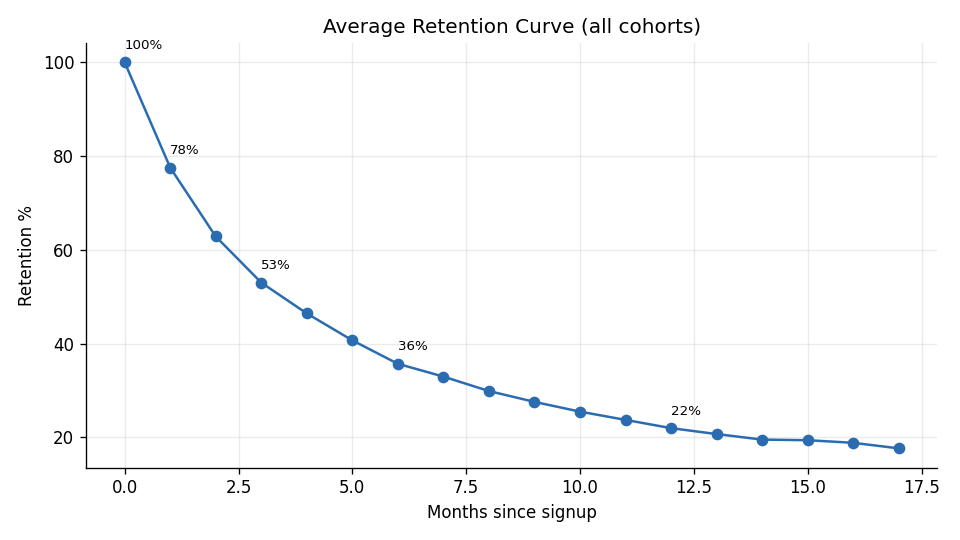
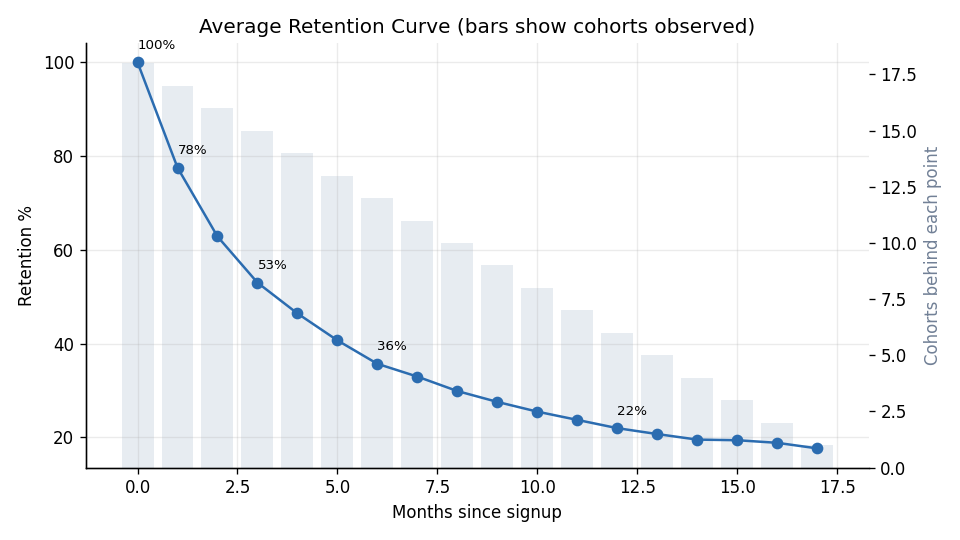
Correct LTV for right-censoring
Average observed lifetime counts anyone still subscribed when the 18-month
window closes as having ended, which is 38.7% of customers here. Expected
lifetime is now read off the survival curve and the tail extrapolated from the
long-run monthly retention rate, and LTV applies a stated gross margin.

Lifetime moves from 4.5 months to 10.3; LTV from $123 to $225.

diff --git a/cohort_analysis.py b/cohort_analysis.py
@@ -75,7 +75,17 @@ fig, ax = plt.subplots(figsize=(8, 4.5))
 ax.plot(avg_curve.index, avg_curve.values, marker="o", color="#2b6cb0")
 for x, yv in zip(avg_curve.index, avg_curve.values):
     if x in (0,1,3,6,12): ax.annotate(f"{yv:.0f}%", (x, yv), textcoords="offset points", xytext=(0,8), fontsize=8)
-ax.set_title("Average Retention Curve (all cohorts)")
+# The tail of this curve rests on fewer and fewer cohorts: a cohort that signed up
+# in month 15 can only ever be observed for 3 months. Month 12 is the average of
+# the 6 oldest cohorts, not of all 18. The mean already excludes unobserved cells,
+# but the reader cannot see the sample thinning unless it is drawn.
+curve_n = retention.notna().sum(axis=0)
+axn = ax.twinx()
+axn.bar(curve_n.index, curve_n.values, color="#cbd5e0", alpha=0.45, zorder=0)
+axn.set_ylabel("Cohorts behind each point", color="#718096")
+axn.grid(False)
+ax.set_zorder(axn.get_zorder() + 1); ax.patch.set_visible(False)
+ax.set_title("Average Retention Curve (bars show cohorts observed)")
 ax.set_xlabel("Months since signup"); ax.set_ylabel("Retention %")
 fig.tight_layout(); fig.savefig("charts/02_retention_curve.png"); plt.close()
 
@@ -85,18 +95,36 @@ m1 = avg_curve.get(1, np.nan)
 m3 = avg_curve.get(3, np.nan)
 m6 = avg_curve.get(6, np.nan)
 m12 = avg_curve.get(12, np.nan)
-avg_lifetime_months = log.groupby("customer_id").month_since_signup.max().add(1).mean()
-ltv = arpu * avg_lifetime_months
+# Average observed lifetime is censored: anyone still subscribed when the window
+# closes has their life cut short by the data, not by churning. 38.7% of customers
+# here are in that position, which drags the mean down and understates LTV.
+# Instead, read expected lifetime off the survival curve (the area under it), then
+# extrapolate the tail using the long-run monthly retention rate.
+naive_lifetime = log.groupby("customer_id").month_since_signup.max().add(1).mean()
+
+surv = avg_curve / 100.0                      # S(m), proportion still active
+observed_area = surv.sum()                    # expected months inside the window
+tail_ratios = (surv.shift(-1) / surv).dropna().tail(6)
+r_longrun = float(tail_ratios.mean())         # steady-state monthly retention
+tail_area = surv.iloc[-1] * r_longrun / (1 - r_longrun) if r_longrun < 1 else np.nan
+expected_lifetime = observed_area + tail_area
+
+GROSS_MARGIN = 0.80                           # assumption: stated, not hidden
+ltv = arpu * GROSS_MARGIN * expected_lifetime
 
 with open("charts/findings.txt", "w") as f:
     f.write(f"Total customers: {log.customer_id.nunique():,}\n")
     f.write(f"ARPU (avg revenue/user/active month): ${arpu:.2f}\n")
-    f.write(f"Average customer lifetime: {avg_lifetime_months:.1f} months\n")
-    f.write(f"Estimated average LTV: ${ltv:.0f}\n\n")
+    f.write(f"Naive observed lifetime (censored): {naive_lifetime:.1f} months\n")
+    f.write(f"Expected lifetime from survival curve: {expected_lifetime:.1f} months\n")
+    f.write(f"  within the 18-month window: {observed_area:.1f} | extrapolated tail: {tail_area:.1f}\n")
+    f.write(f"  long-run monthly retention used for the tail: {r_longrun*100:.1f}%\n")
+    f.write(f"Estimated LTV (ARPU x {GROSS_MARGIN:.0%} margin x lifetime): ${ltv:.0f}\n\n")
     f.write("Average retention curve (%):\n")
     for x, yv in avg_curve.items():
         f.write(f"  Month {int(x):2d}: {yv:.1f}%\n")
 
-print(f"ARPU ${arpu:.2f} | Avg lifetime {avg_lifetime_months:.1f} mo | LTV ${ltv:.0f}")
+print(f"ARPU ${arpu:.2f} | naive lifetime {naive_lifetime:.1f} mo (censored) "
+      f"| expected lifetime {expected_lifetime:.1f} mo | LTV ${ltv:.0f}")
 print(f"Retention M1 {m1:.1f}% | M3 {m3:.1f}% | M6 {m6:.1f}% | M12 {m12:.1f}%")
 print("Done. Charts + findings in charts/")
